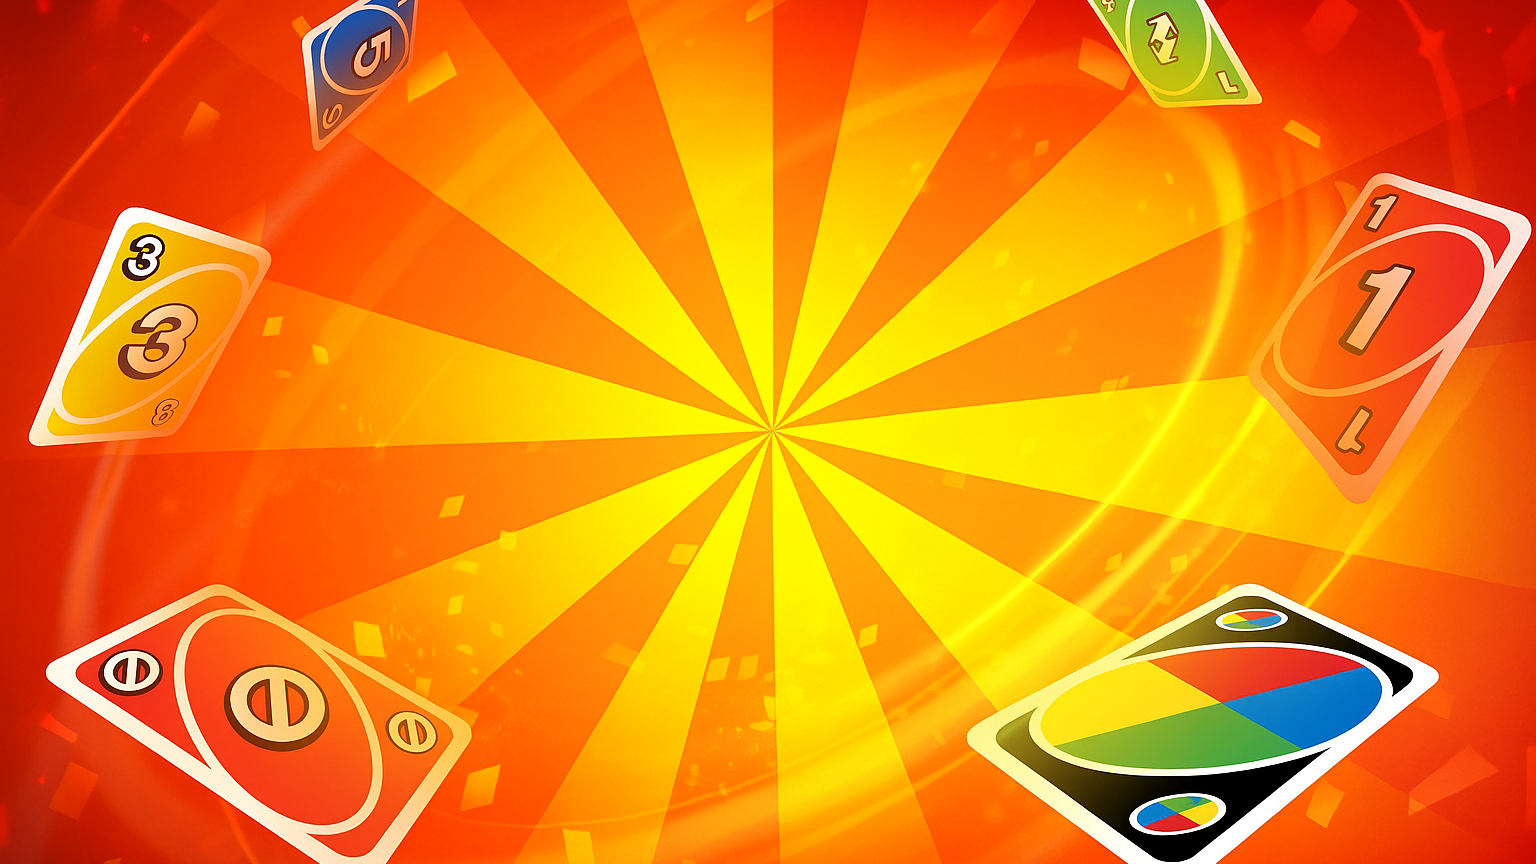
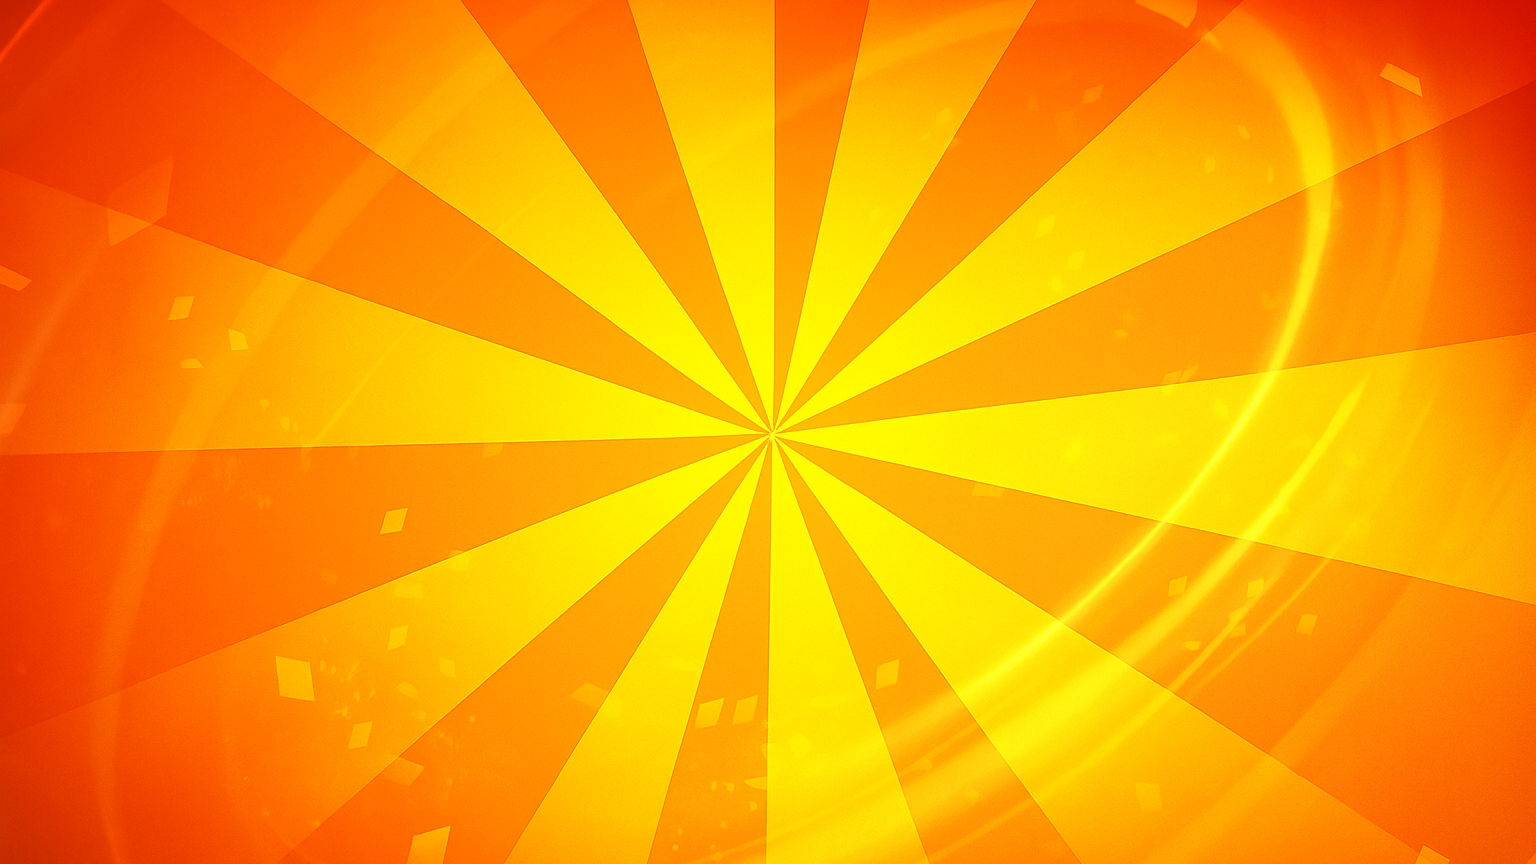
new background

diff --git a/src/main/resources/com/example/myuno/scenes/gameSceneView/GameSceneStyle.css b/src/main/resources/com/example/myuno/scenes/gameSceneView/GameSceneStyle.css
@@ -15,9 +15,15 @@
     -fx-effect: dropshadow(gaussian, gray, 3, 0.3, 2, 2);
 }
 
+.card-button:hover{
+    -fx-effect: dropshadow(gaussian, #9a9a9a, 10, 0.9, 0, 0);
+}
+
 .robber-button{
     -fx-background-color: transparent;
     -fx-background-image: url("../../images/assets/GameScene/robberDeck.png");
     -fx-pref-height: 231;
     -fx-pref-width: 300;
 }
+
+

diff --git a/src/main/java/com/example/myuno/model/card/types/NumberCard.java b/src/main/java/com/example/myuno/model/card/types/NumberCard.java
@@ -38,7 +38,7 @@ public class NumberCard implements Number, Card {
     public Boolean canBePlayedOver(Card card) {
         if (card.getColor().equals(color)) {
             return true;
-        } else if (card instanceof NumberCard) {
+        } else if (card instanceof Number) {
             return ((NumberCard) card).getNumber() == number;
         }
         return false;
